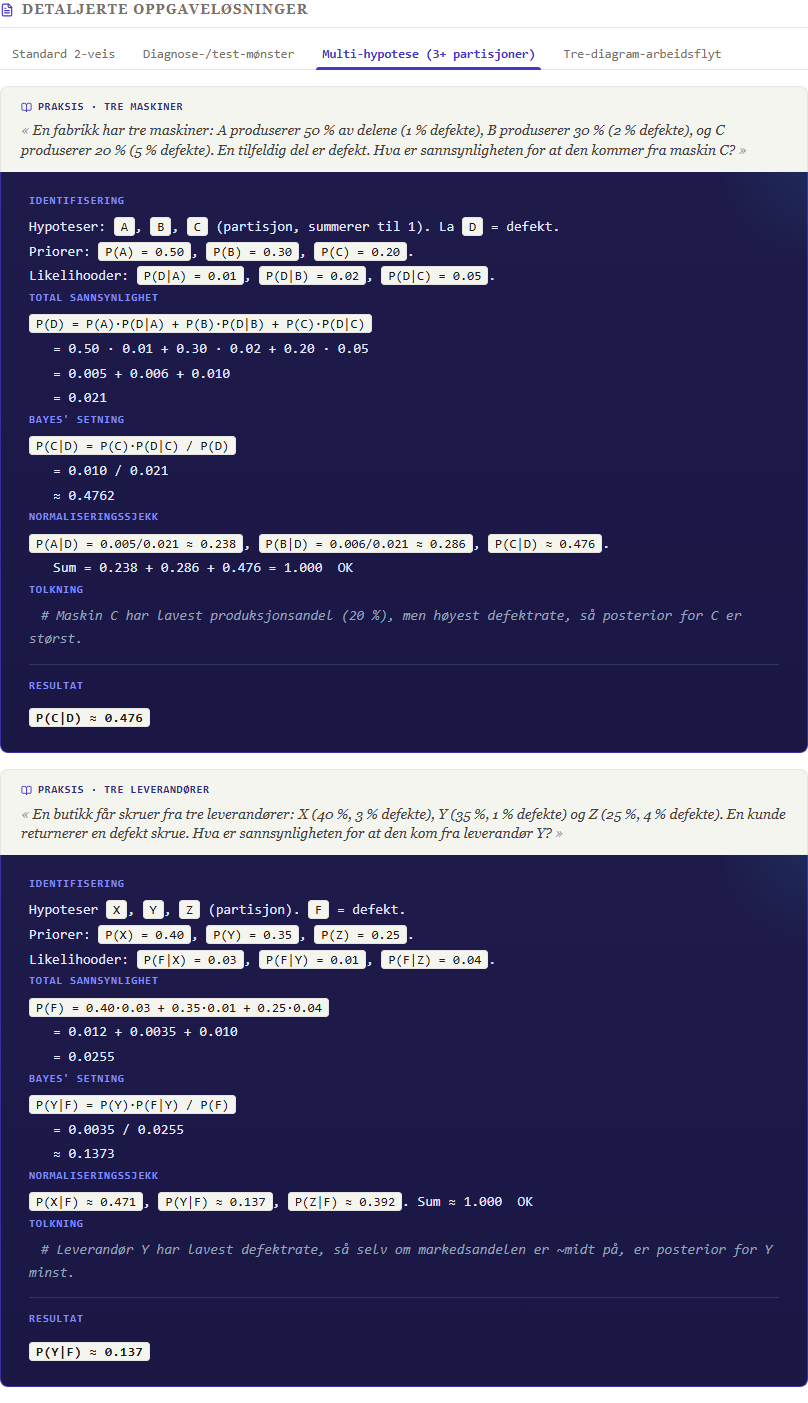
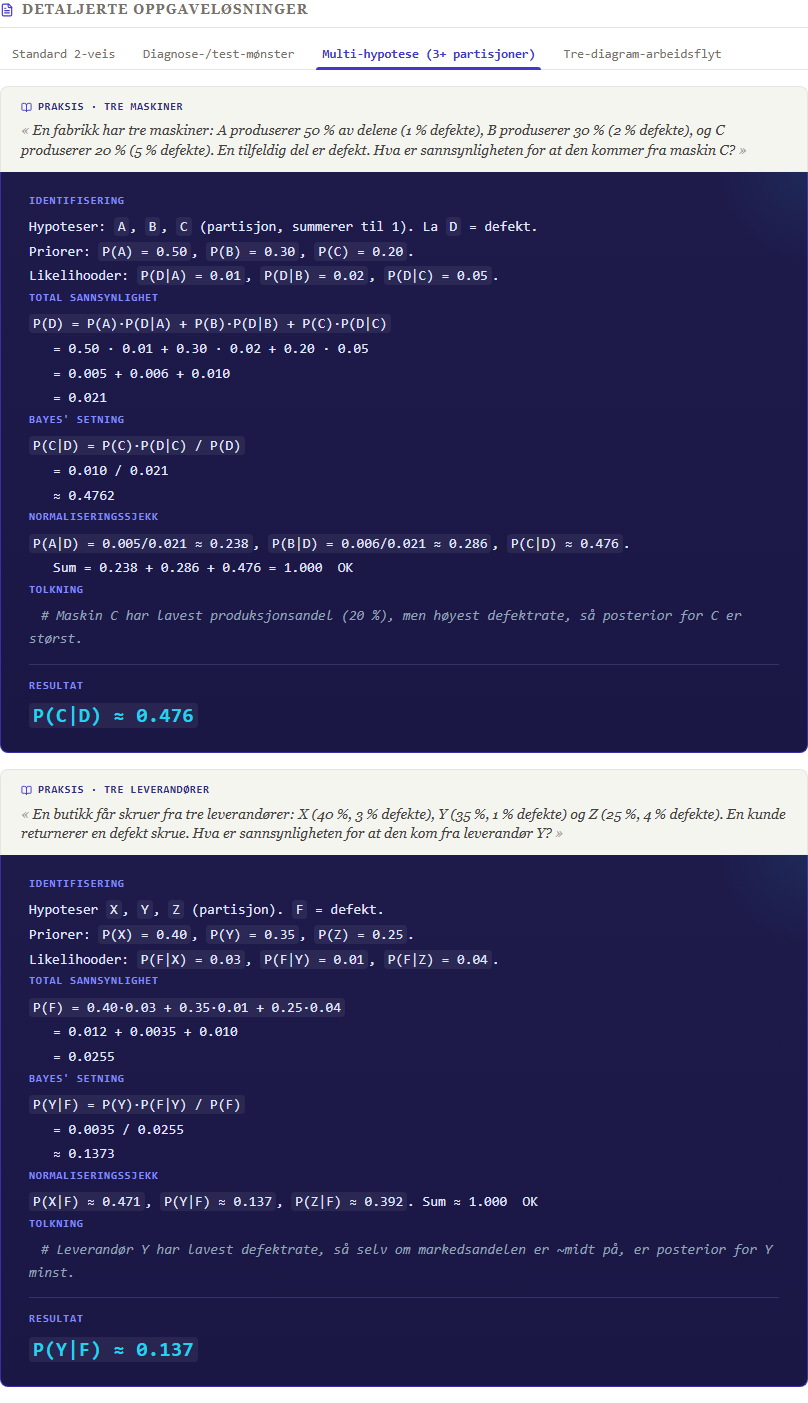
fix(detail): subtle dark-theme inline-code style for DetailedSolution
The light-paper pill style clashed on the dark indigo calc-card —
overly bright, competed with the surrounding mono text. Made
renderInlineCode theme-aware: 'light' (default, used by StepByStep)
keeps the original pill; 'dark' (used by DetailedSolution) is a
faint white-tint with no border and inherits foreground color.

diff --git a/src/components/detail/inline-code.tsx b/src/components/detail/inline-code.tsx
@@ -1,5 +1,7 @@
 import { Fragment, type ReactNode } from "react";
 
+export type InlineCodeTheme = "light" | "dark";
+
 /**
  * Render a string with `backtick`-delimited spans wrapped in <code> so
  * inline math/symbols (`Z = (X − μ)/σ`, `P(X < x)`) read as code on the
@@ -7,18 +9,23 @@ import { Fragment, type ReactNode } from "react";
  * preserved as-is — KaTeX is not invoked here, the symbols are
  * already Unicode in the YAML.
  *
- * Shared between StepByStep and DetailedSolution so the typography
- * stays consistent across the two paired sections on the entry page.
+ * Two themes:
+ *  - `light` (default) — light-grey pill on white card, used by StepByStep
+ *    where the surrounding text is serif on paper.
+ *  - `dark` — subtle white-tint, no border, used inside the dark calc-style
+ *    DetailedSolution card where the surroundings are already monospace
+ *    indigo-on-navy. The pill there is just a soft tint to mark the
+ *    backticked region without competing with the text.
  */
-export function renderInlineCode(text: string): ReactNode {
+export function renderInlineCode(
+  text: string,
+  theme: InlineCodeTheme = "light",
+): ReactNode {
   const parts = text.split(/(`[^`]+`)/g);
   return parts.map((part, i) => {
     if (part.length >= 2 && part.startsWith("`") && part.endsWith("`")) {
       return (
-        <code
-          key={i}
-          className="rounded border border-line bg-paper-2 px-1.5 py-[1px] font-mono text-[13px] text-ink"
-        >
+        <code key={i} className={CODE_CLASS[theme]}>
           {part.slice(1, -1)}
         </code>
       );
@@ -26,3 +33,13 @@ export function renderInlineCode(text: string): ReactNode {
     return <Fragment key={i}>{part}</Fragment>;
   });
 }
+
+const CODE_CLASS: Record<InlineCodeTheme, string> = {
+  // Light: distinct pill against a serif/paper background.
+  light:
+    "rounded border border-line bg-paper-2 px-1.5 py-[1px] font-mono text-[13px] text-ink",
+  // Dark: faint white tint on the indigo calc-card. No border. Inherits
+  // the surrounding mono text color so the contrast is gentle, not loud.
+  dark:
+    "rounded bg-white/[0.06] px-1 py-[1px] font-mono text-[inherit]",
+};

diff --git a/src/components/detail/DetailedSolution.tsx b/src/components/detail/DetailedSolution.tsx
@@ -46,7 +46,7 @@ export function DetailedSolution({ solution }: { solution: DS }) {
               if ("text" in line) {
                 return (
                   <div key={li} className="whitespace-pre-wrap break-words py-px">
-                    {renderInlineCode(line.text)}
+                    {renderInlineCode(line.text, "dark")}
                   </div>
                 );
               }
@@ -57,7 +57,7 @@ export function DetailedSolution({ solution }: { solution: DS }) {
                       className="ml-3 italic"
                       style={{ color: "var(--color-calc-comment)" }}
                     >
-                      # {renderInlineCode(line.comment)}
+                      # {renderInlineCode(line.comment, "dark")}
                     </span>
                   </div>
                 );
@@ -65,7 +65,7 @@ export function DetailedSolution({ solution }: { solution: DS }) {
               if ("indent" in line) {
                 return (
                   <div key={li} className="whitespace-pre-wrap break-words py-px pl-6">
-                    {renderInlineCode(line.indent)}
+                    {renderInlineCode(line.indent, "dark")}
                   </div>
                 );
               }
@@ -96,7 +96,7 @@ export function DetailedSolution({ solution }: { solution: DS }) {
           className="block break-words text-[20px] font-bold tracking-wide"
           style={{ color: "var(--color-calc-result)" }}
         >
-          {renderInlineCode(solution.result)}
+          {renderInlineCode(solution.result, "dark")}
         </span>
       </div>
     </div>
